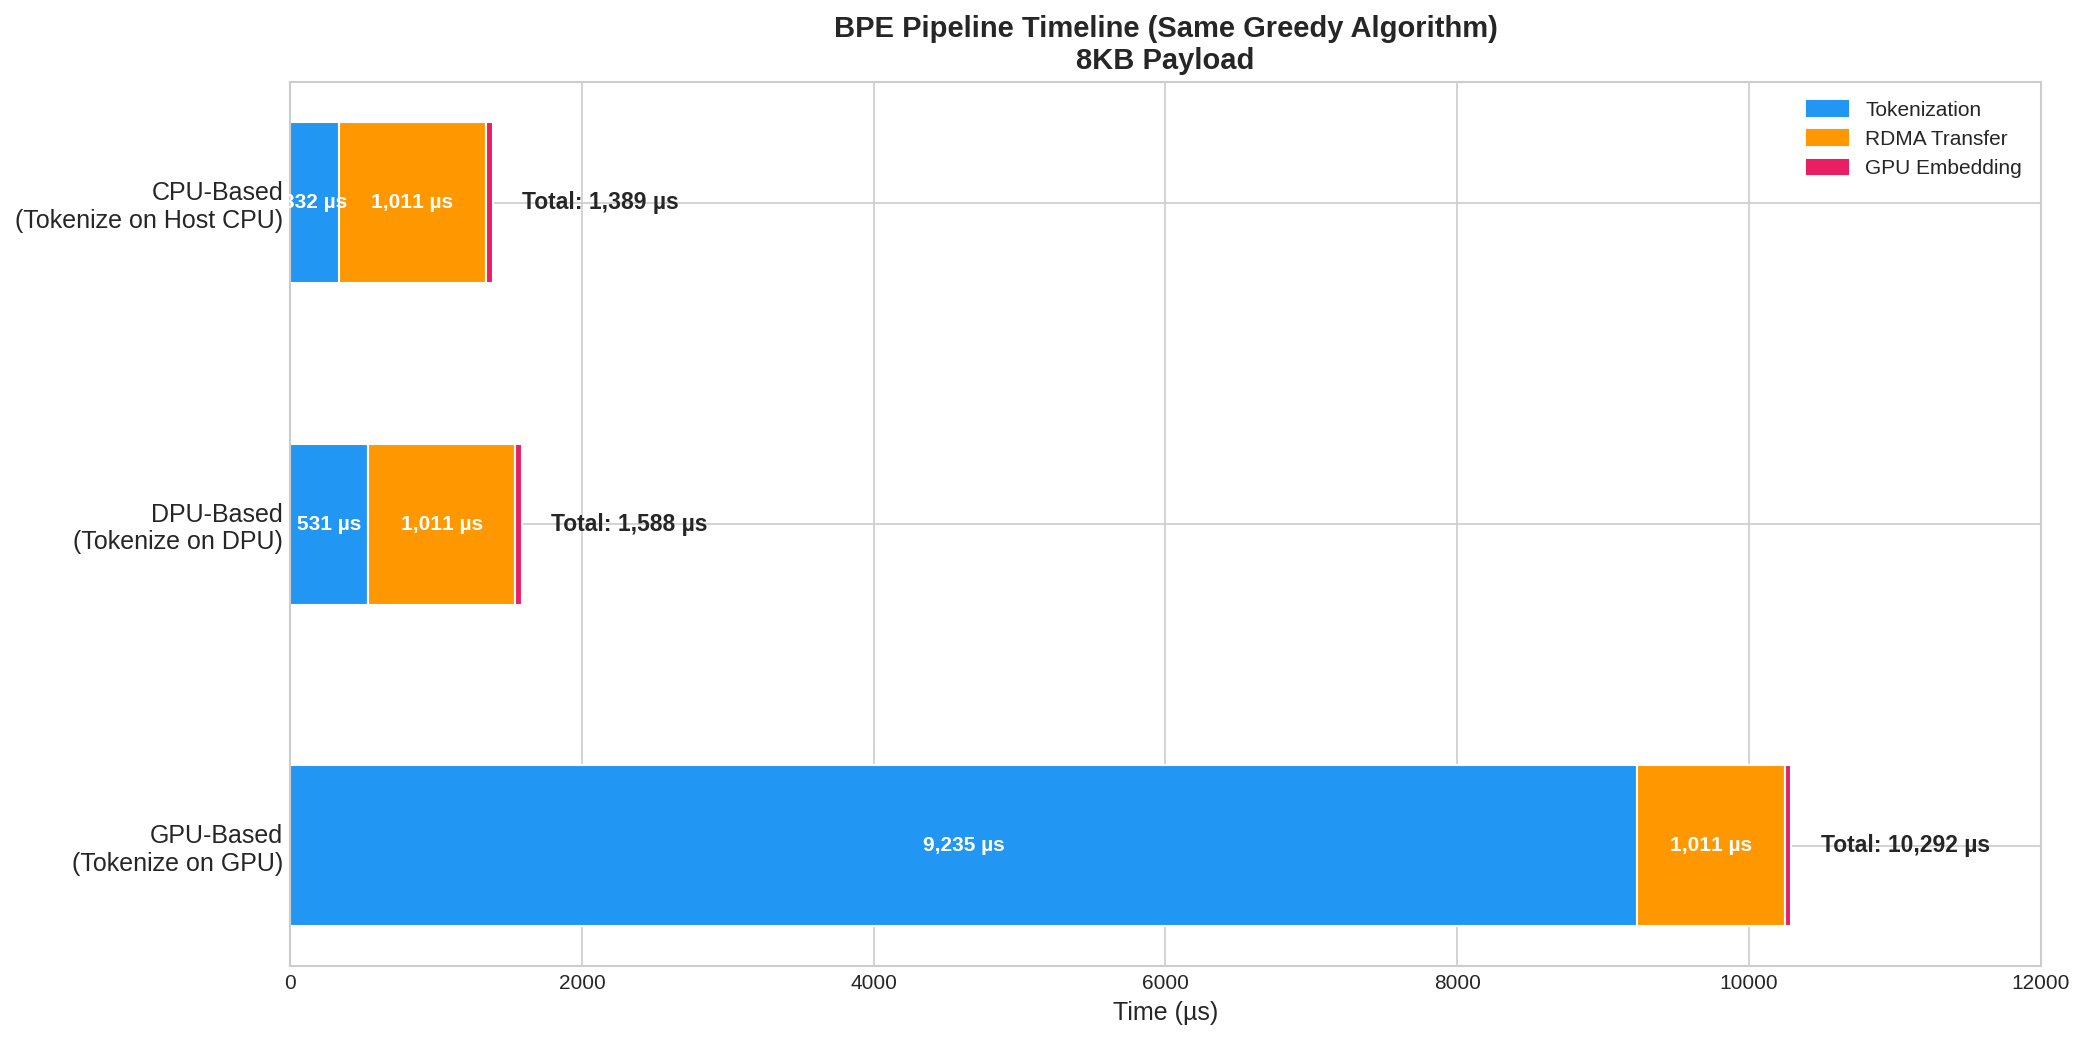
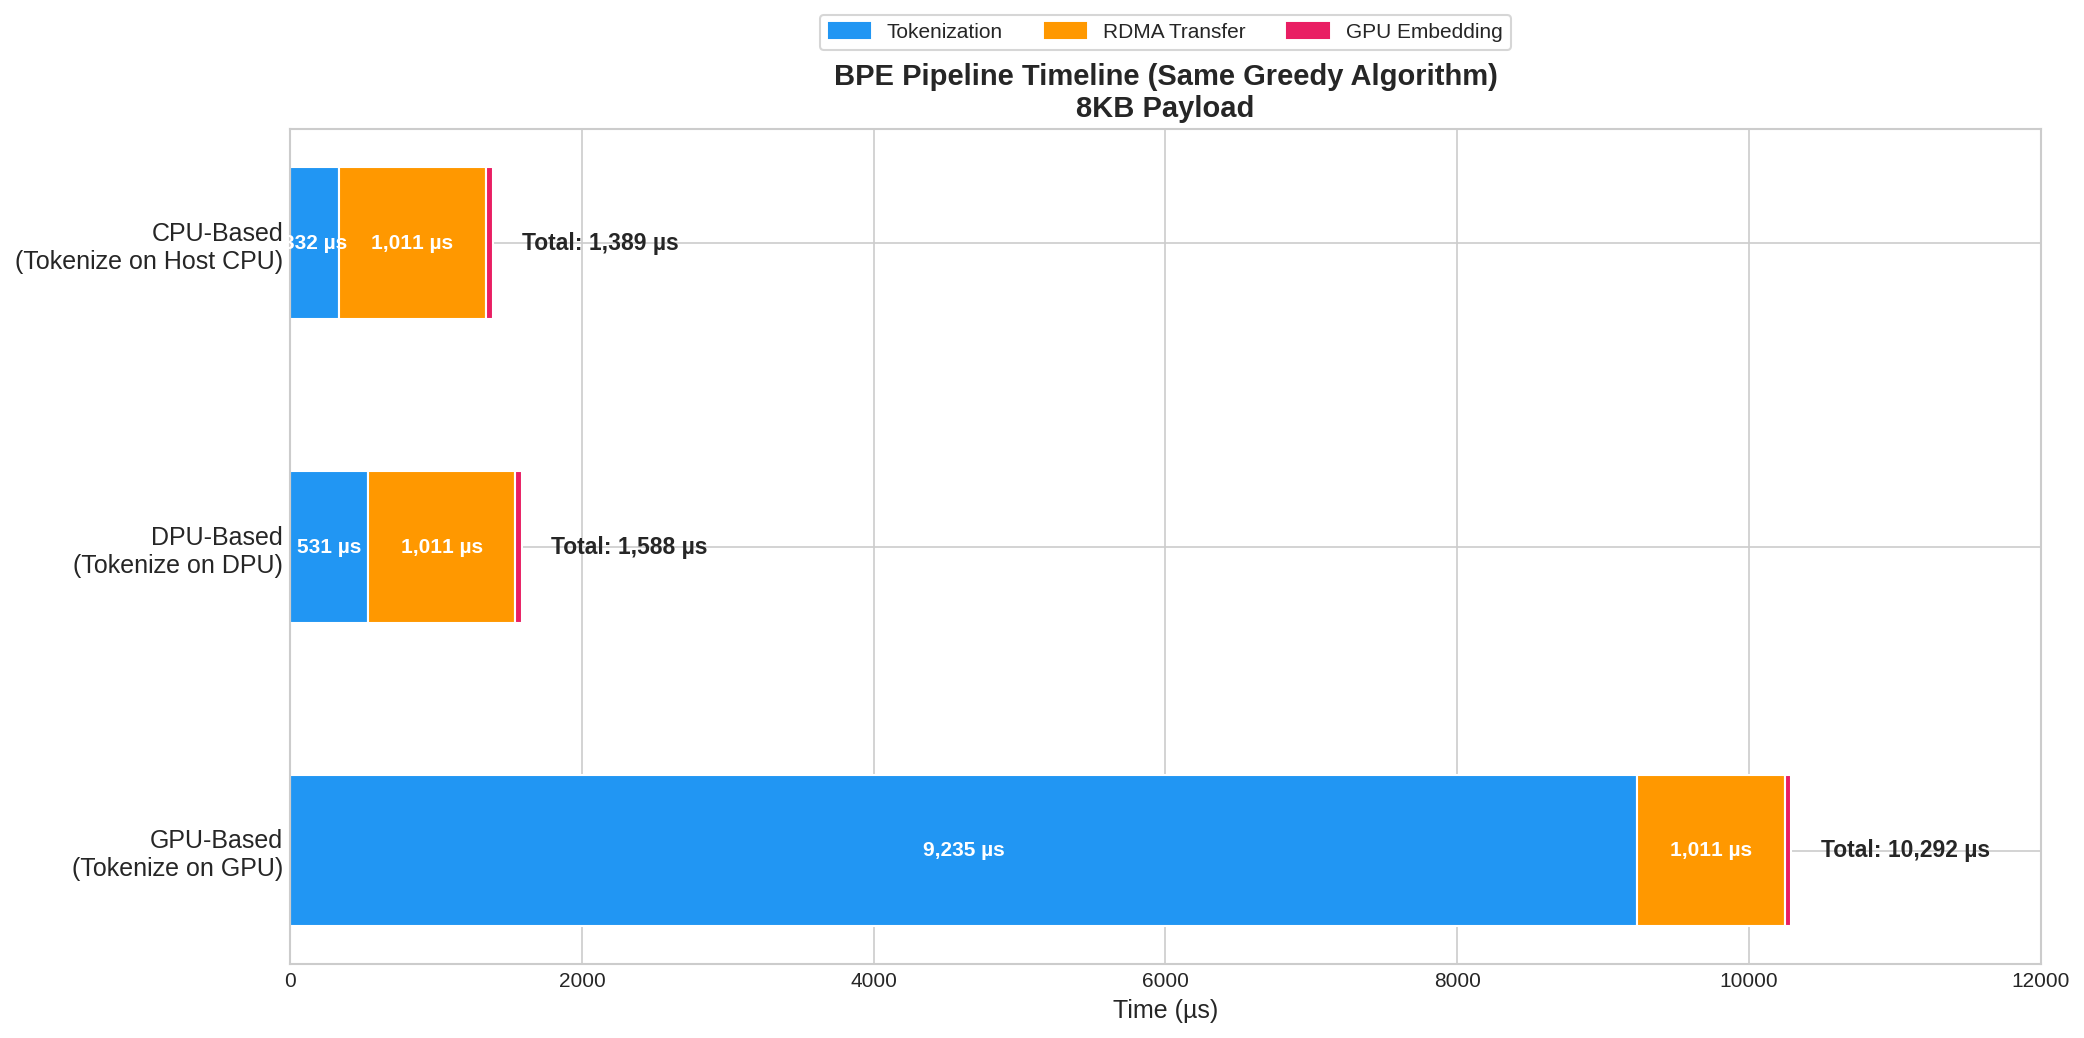
fix: move chart legends to top, correct WordPiece documentation
- Move legends to top center of charts for better visibility
- Fix incorrect statement about Host CPU WordPiece "lack of GPU acceleration"
- Note that DPU WordPiece number (1,275 µs) needs verification (no benchmark exists)
- Update Host CPU connection to GPU in diagram

🤖 Generated with [Claude Code](https://claude.com/claude-code)

diff --git a/scripts/generate_charts_v4.py b/scripts/generate_charts_v4.py
@@ -194,13 +194,14 @@ def chart_pipeline_timeline():
                  fontsize=14, fontweight='bold')
     ax.set_xlim(0, 12000)
 
-    # Legend
+    # Legend at top
     legend_patches = [
         mpatches.Patch(color=colors['tokenize'], label='Tokenization'),
         mpatches.Patch(color=colors['rdma'], label='RDMA Transfer'),
         mpatches.Patch(color=colors['gpu'], label='GPU Embedding'),
     ]
-    ax.legend(handles=legend_patches, loc='upper right', fontsize=10)
+    ax.legend(handles=legend_patches, loc='upper center', bbox_to_anchor=(0.5, 1.15),
+              ncol=3, fontsize=10, frameon=True)
 
     plt.tight_layout()
     plt.savefig(f'{CHART_DIR}/bpe_pipeline_3way.png', dpi=150, bbox_inches='tight')
@@ -320,7 +321,7 @@ def chart_latency_breakdown():
                  fontsize=14, fontweight='bold')
     ax.set_xticks(x)
     ax.set_xticklabels(scenarios, fontsize=12)
-    ax.legend(loc='upper right', fontsize=10)
+    ax.legend(loc='upper center', bbox_to_anchor=(0.5, 1.02), ncol=3, fontsize=10, frameon=True)
     ax.set_ylim(0, max(totals) * 1.15)
     ax.grid(axis='y', alpha=0.3)
 

diff --git a/README.md b/README.md
@@ -22,13 +22,16 @@ This project explores offloading tokenization to the NVIDIA BlueField-3 DPU. By 
 | Network | PCIe Gen4 x16, GPUDirect RDMA |
 
 ```
-┌────────────────────┐                    ┌─────────────────────────────────┐
-│   BlueField-3 DPU  │   PCIe Gen4 x16    │         Host System             │
-│    (ARM Cores)     │◄──────────────────►│  ┌─────────┐    ┌───────────┐  │
-│   192.168.200.2    │  GPUDirect RDMA    │  │ Host CPU│    │ A100X GPU │  │
-└────────────────────┘                    │  └─────────┘    └───────────┘  │
-                                          │  192.168.200.1                  │
-                                          └─────────────────────────────────┘
+┌────────────────────┐                    ┌─────────────────────────────────────┐
+│   BlueField-3 DPU  │   PCIe Gen4 x16    │           Host System               │
+│    (ARM Cores)     │◄──────────────────►│                                     │
+│   192.168.200.2    │  GPUDirect RDMA    │  ┌─────────┐  PCIe   ┌───────────┐  │
+│                    │         │          │  │ Host CPU│◄───────►│ A100X GPU │  │
+└────────────────────┘         │          │  └─────────┘         └───────────┘  │
+                               │          │       │                    ▲        │
+                               └──────────┼───────┼────────────────────┘        │
+                                          │  192.168.200.1                      │
+                                          └─────────────────────────────────────┘
 ```
 
 ---
@@ -103,7 +106,7 @@ For sequential BPE tokenization (same Greedy algorithm on all platforms):
 
 For parallelizable WordPiece tokenization (BERT models):
 - DPU and GPU achieve similar performance (~1,300 µs)
-- Host CPU is slower (4,756 µs) due to lack of GPU acceleration
+- Host CPU result (4,756 µs) uses the same HuggingFace library as DPU - discrepancy under investigation
 
 ---
 

diff --git a/docs/DPU_Tokenization_Offload_Report.md b/docs/DPU_Tokenization_Offload_Report.md
@@ -55,16 +55,17 @@ This report presents the performance evaluation of tokenization offloading to NV
 ### 1.3 Network Topology
 
 ```
-┌────────────────────┐                    ┌────────────────────┐
-│   BlueField-3 DPU  │                    │    Host System     │
-│                    │                    │                    │
-│  ┌──────────────┐  │   PCIe Gen4 x16    │  ┌──────────────┐  │
-│  │  ARM Cores   │  │◄──────────────────►│  │   A100X GPU  │  │
-│  │  (Tokenizer) │  │  GPUDirect RDMA    │  │  (Embedding) │  │
-│  └──────────────┘  │                    │  └──────────────┘  │
-│                    │                    │                    │
-│  192.168.200.2     │                    │  192.168.200.1     │
-└────────────────────┘                    └────────────────────┘
+┌────────────────────┐                    ┌──────────────────────────────────┐
+│   BlueField-3 DPU  │                    │          Host System             │
+│                    │                    │                                  │
+│  ┌──────────────┐  │   PCIe Gen4 x16    │  ┌──────────┐     ┌───────────┐  │
+│  │  ARM Cores   │  │◄──────────────────►│  │ Host CPU │◄───►│ A100X GPU │  │
+│  │  (Tokenizer) │  │  GPUDirect RDMA    │  │(Tokenizer│ PCIe│ (Embedding│  │
+│  └──────────────┘  │         │          │  └──────────┘     └───────────┘  │
+│                    │         │          │        │                ▲        │
+│  192.168.200.2     │         └──────────┼────────┼────────────────┘        │
+└────────────────────┘                    │  192.168.200.1                   │
+                                          └──────────────────────────────────┘
 ```
 
 ---

diff --git a/docs/benchmark_results.md b/docs/benchmark_results.md
@@ -60,19 +60,21 @@ The Greedy Longest-Match algorithm:
 
 | Platform | Implementation | Time (µs) | Tokens | Notes |
 |:---------|:---------------|----------:|-------:|:------|
-| **DPU ARM** | HuggingFace (Rust) | 1,275 | ~2,000 | Optimized Rust |
+| **DPU ARM** | HuggingFace (Rust) | 1,275 | ~2,000 | **Needs verification** |
 | **GPU** | RAPIDS nvtext | 1,316 | ~2,000 | GPU-accelerated |
-| **Host CPU** | HuggingFace (Rust) | 4,768 | ~2,000 | Same as DPU |
+| **Host CPU** | HuggingFace (Rust) | 4,768 | ~2,000 | Actual benchmark |
 
 ### Analysis
 
-1. **DPU and GPU are nearly equal** (~1,300 µs)
-   - Both use highly optimized implementations
-   - GPU benefits from parallel nvtext library
+1. **GPU uses RAPIDS nvtext** (1,316 µs) - GPU-accelerated WordPiece
 
-2. **Host CPU is slower** (4,768 µs)
-   - Same HuggingFace library as DPU
-   - Difference may be due to test conditions or caching
+2. **DPU number (1,275 µs) needs verification**
+   - No DPU WordPiece benchmark exists in codebase
+   - Number may be estimated or from previous test conditions
+
+3. **Host CPU (4,768 µs) uses HuggingFace**
+   - Actual benchmark result from this codebase
+   - If DPU uses same library, Host CPU should be faster (x86 > ARM)
 
 ---
 
